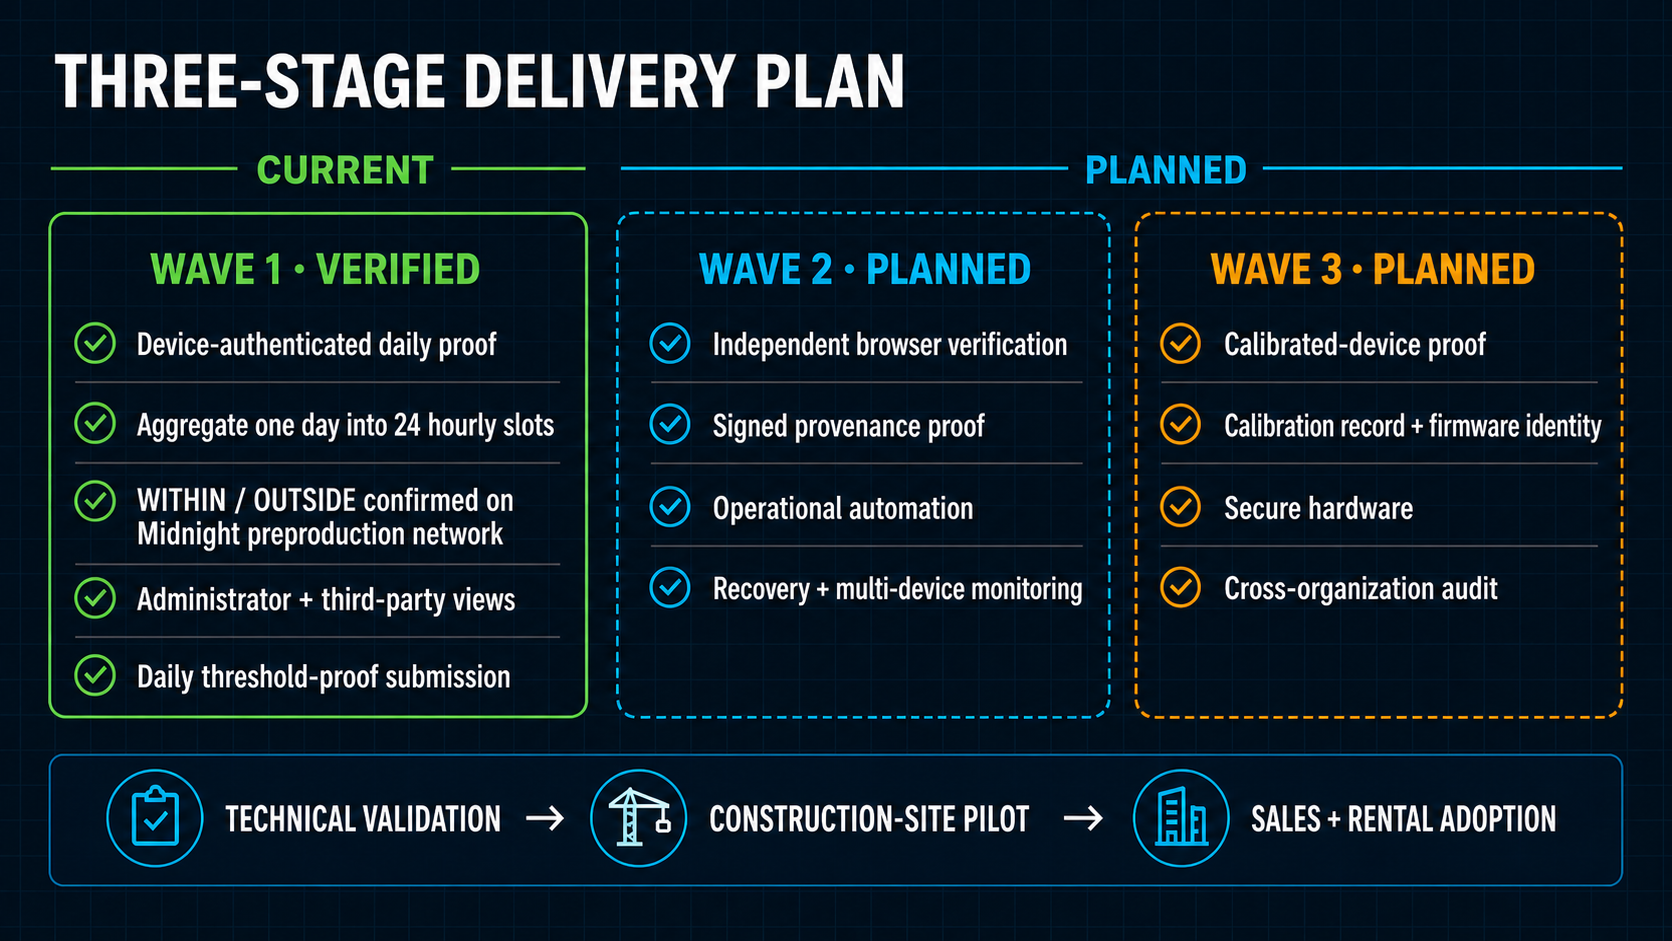
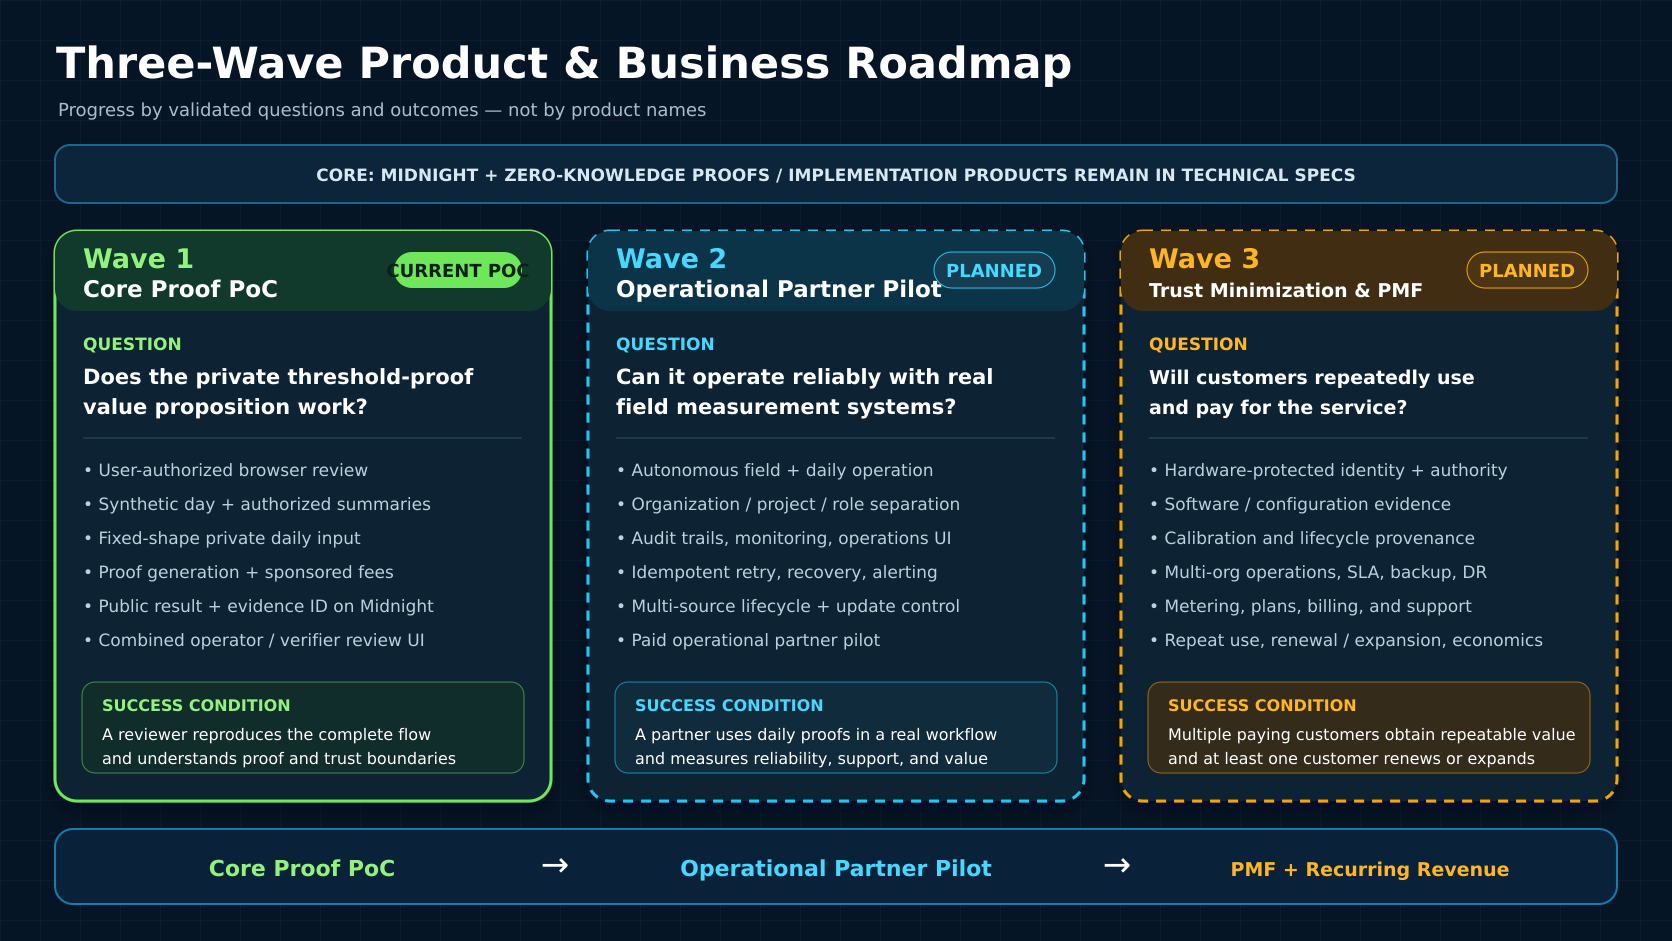
docs(roadmap): add bilingual delivery figures

diff --git a/README.md b/README.md
@@ -188,6 +188,8 @@ The expected review result is 6 compiled operational proof circuits, 288 passing
 
 The canonical [product and business roadmap](docs/architecture/three_wave_roadmap.md) progresses by outcome:
 
+![Three-wave product and business roadmap](docs/assets/review/three-wave-roadmap-en.png)
+
 - Wave 1 — Core Proof PoC: validate the privacy value with a simulated measurement source and one review-oriented interface.
 - Wave 2 — Operational Partner Pilot: connect real field measurement systems, automate the daily lifecycle, separate user roles and interfaces, and add production authorization, audit, diagnostics, monitoring, recovery, and a system-operations dashboard.
 - Wave 3 — Trust Minimization and PMF: add hardware-protected identity and provenance, operate commercially across organizations and sites, and validate recurring revenue, renewal, expansion, and sustainable unit economics.

diff --git a/docs/ja/README.md b/docs/ja/README.md
@@ -188,6 +188,8 @@ TMPDIR=/tmp npm run verify
 
 [製品・事業ロードマップ](architecture/three_wave_roadmap.md)は、次の成果順に進めます。
 
+![3 Wave製品・事業ロードマップ](assets/review/three-wave-roadmap-ja.png)
+
 - Wave 1 — Core Proof PoC：疑似計測元と審査用統合画面で、非公開証明の中核価値を検証します。
 - Wave 2 — Operational Partner Pilot：実際の現場計測システムを接続して日次処理を自律化し、画面と役割の分離、本番認証・認可、監査、解析、監視、復旧、運用ダッシュボードを実装します。
 - Wave 3 — Trust Minimization and PMF：ハードウェア保護Identityと来歴を導入し、複数組織・複数現場で商用運用して、継続売上、契約更新、利用拡大、持続可能なUnit Economicsを検証します。
